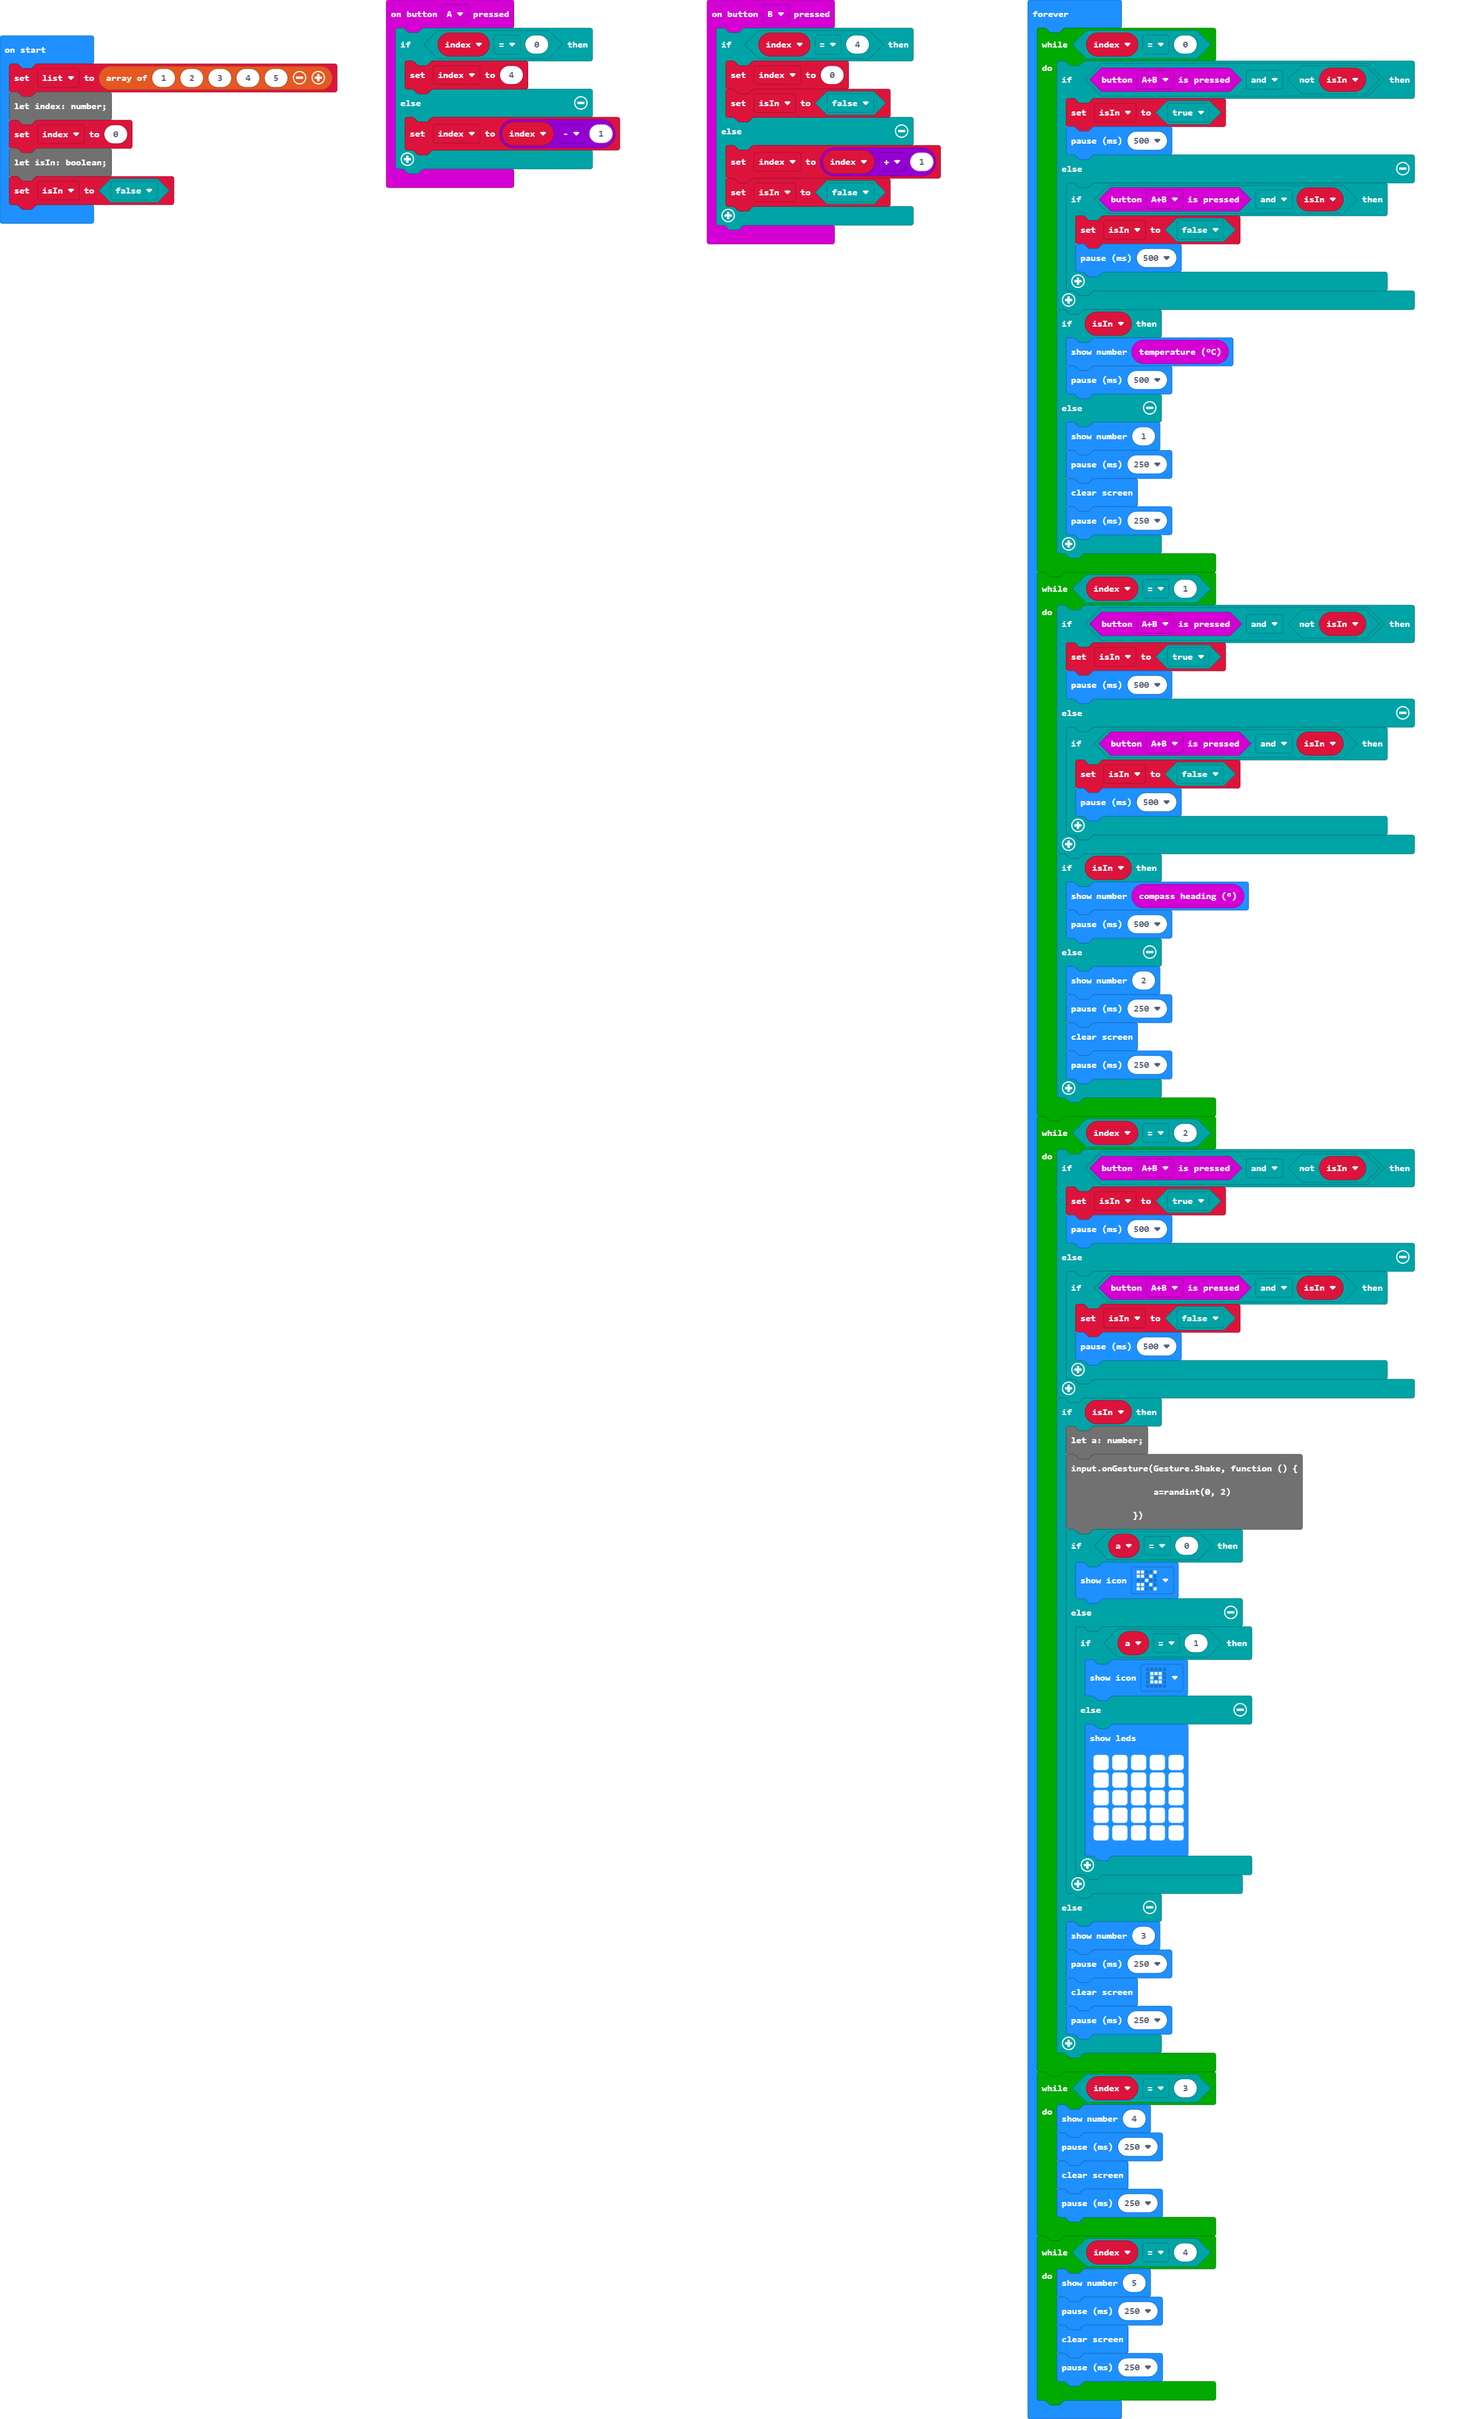
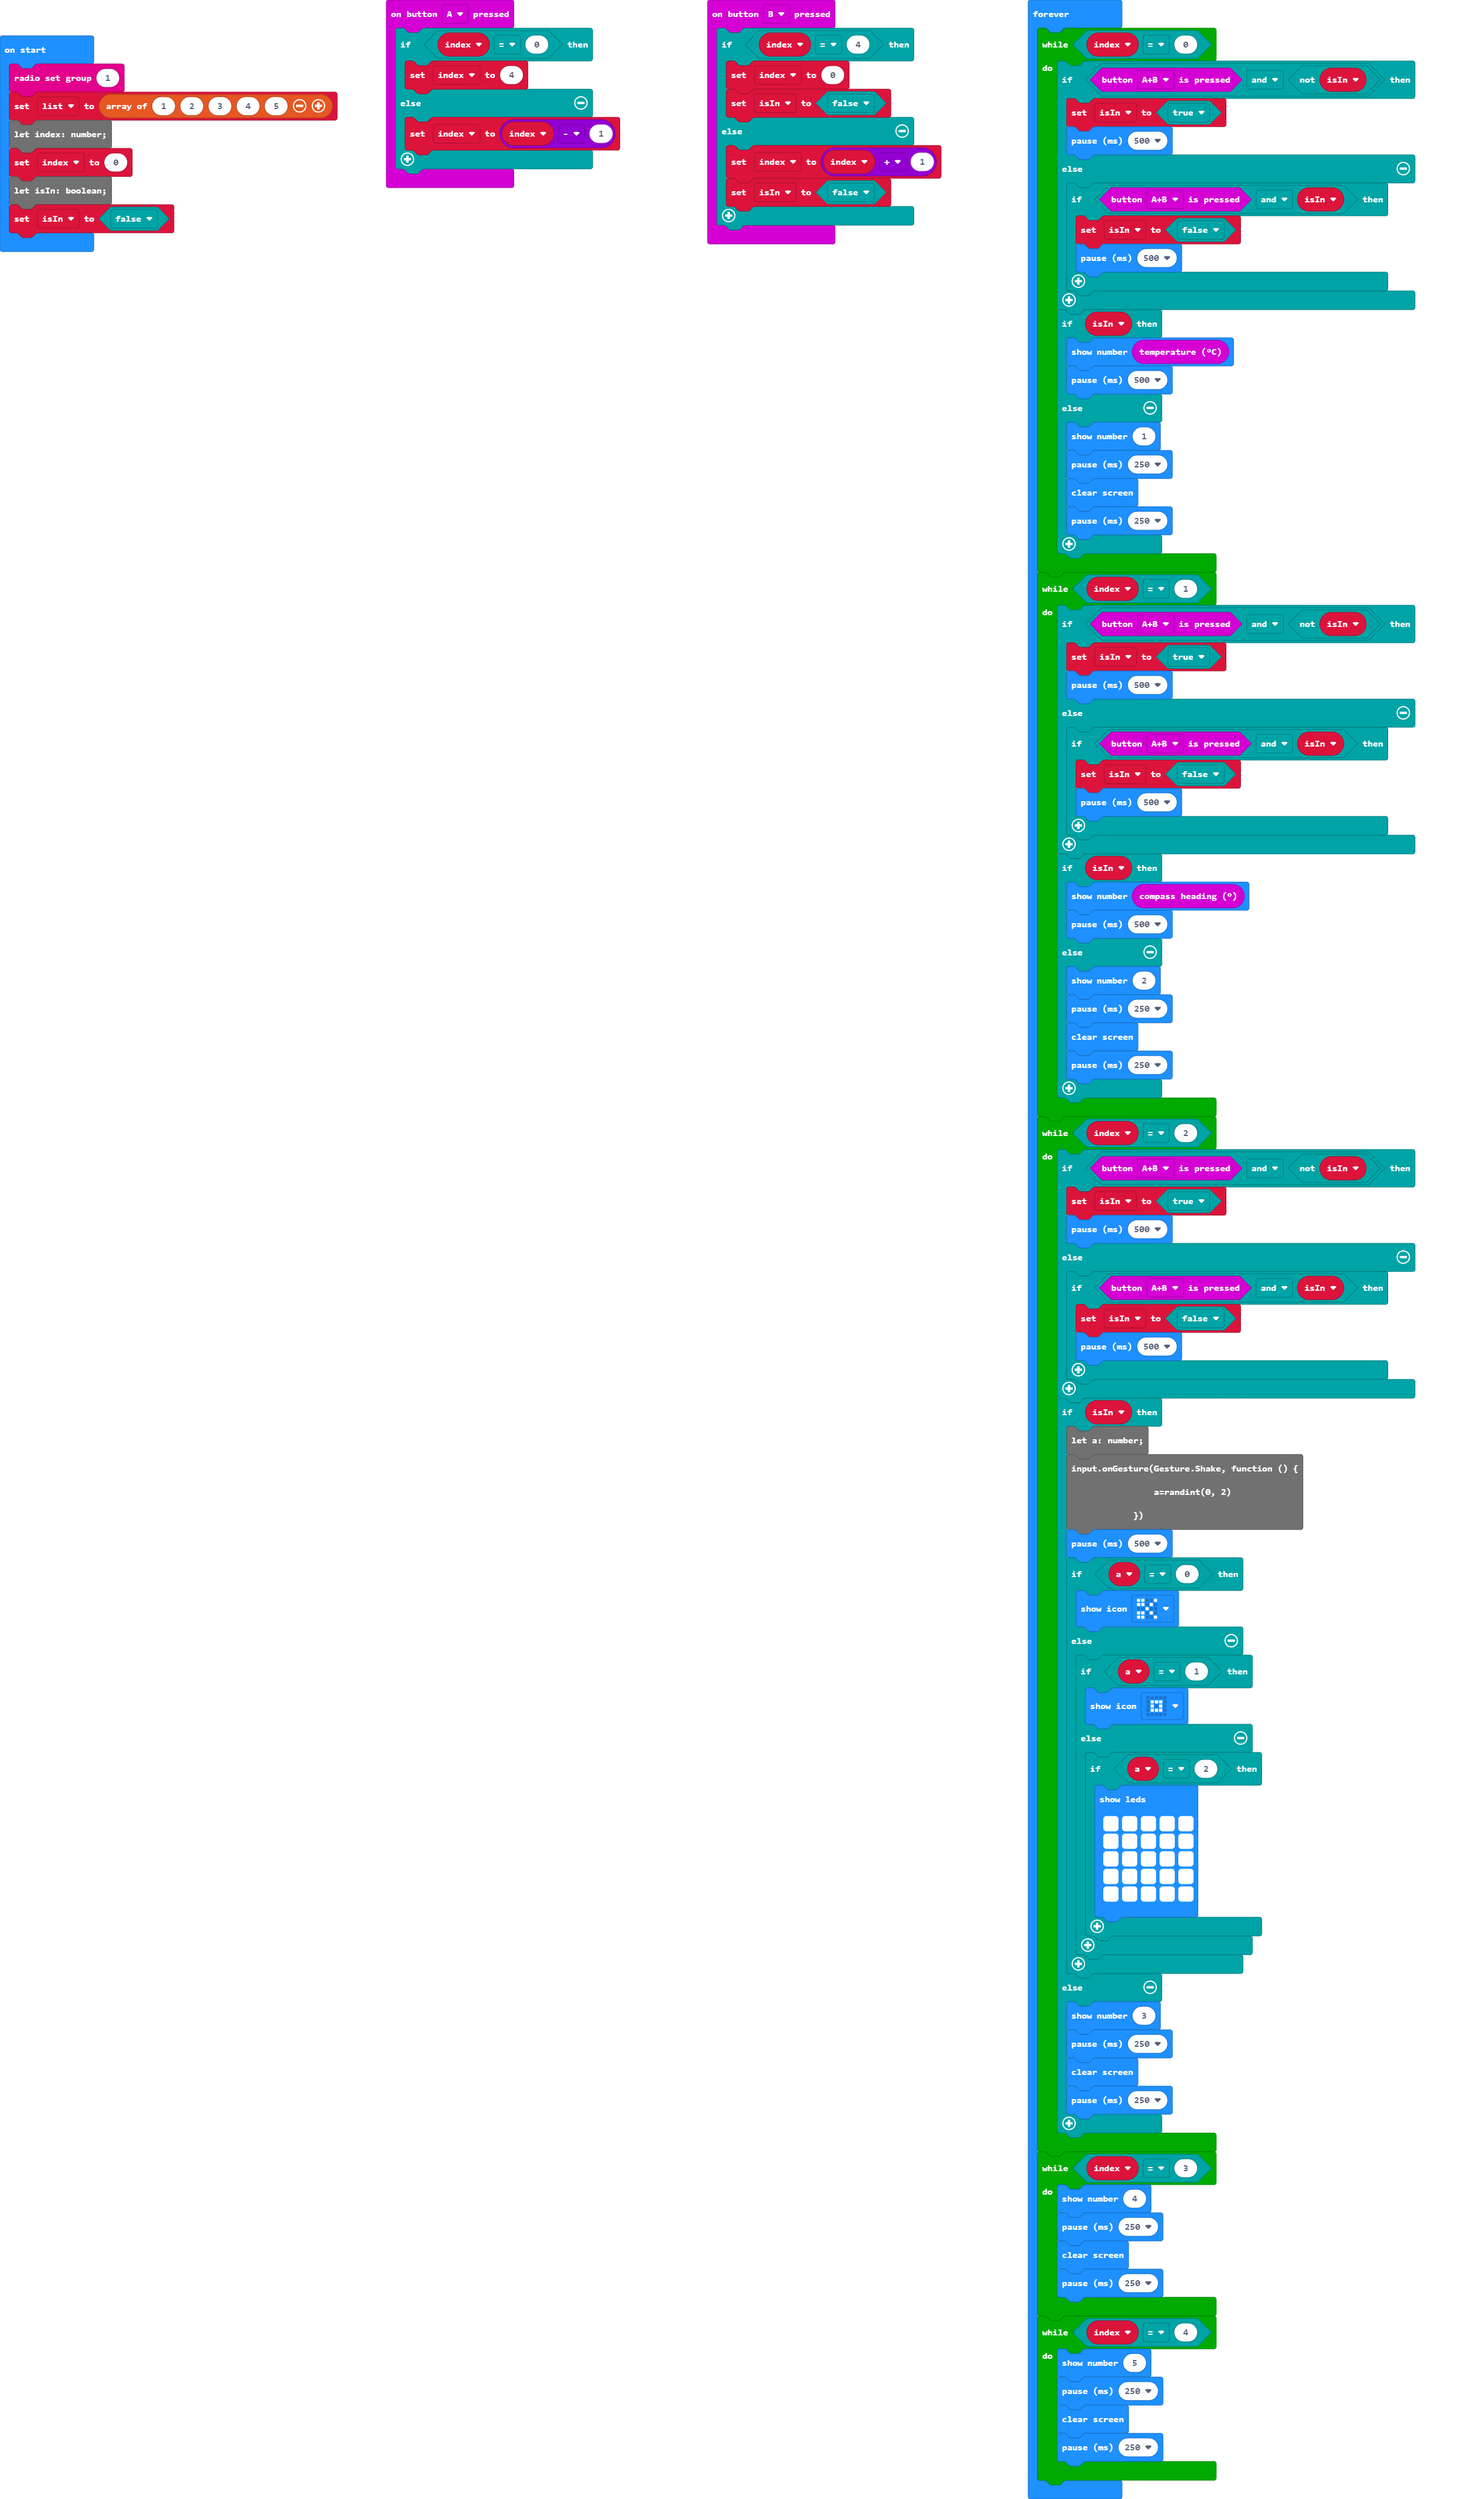
Update main.blocks, main.ts

diff --git a/main.ts b/main.ts
@@ -72,17 +72,17 @@ basic.forever(function () {
         }
         if (isIn) {
             let a: number;
-            input.onGesture(Gesture.Shake, function () {
+input.onGesture(Gesture.Shake, function () {
                 a=randint(0, 2)
             })
-            basic.pause(500)
+basic.pause(500)
             if (a == 0) {
                 basic.showIcon(IconNames.Scissors)
             } else {
                 if (a == 1) {
                     basic.showIcon(IconNames.SmallSquare)
                 } else {
-                    if(a==2)
+                    if (a == 2) {
                         basic.showLeds(`
                             # # # # #
                             # # # # #
@@ -90,6 +90,7 @@ basic.forever(function () {
                             # # # # #
                             # # # # #
                             `)
+                    }
                 }
             }
         } else {
